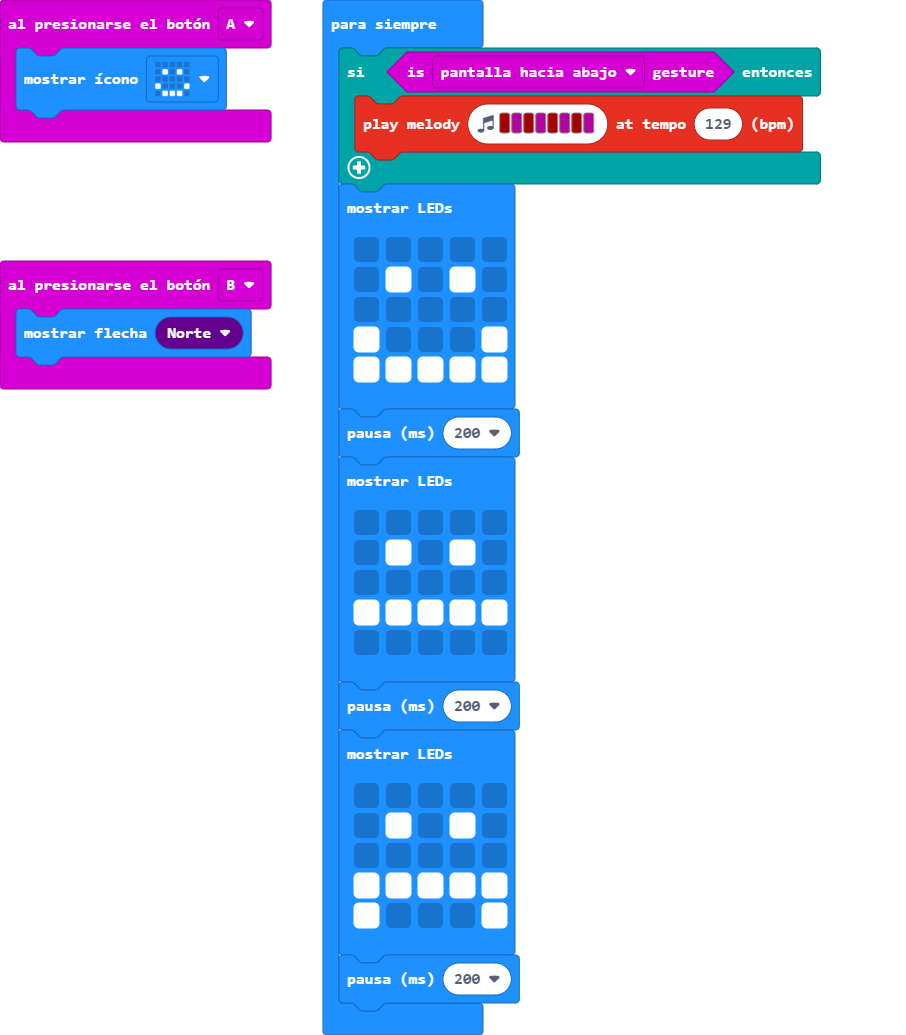
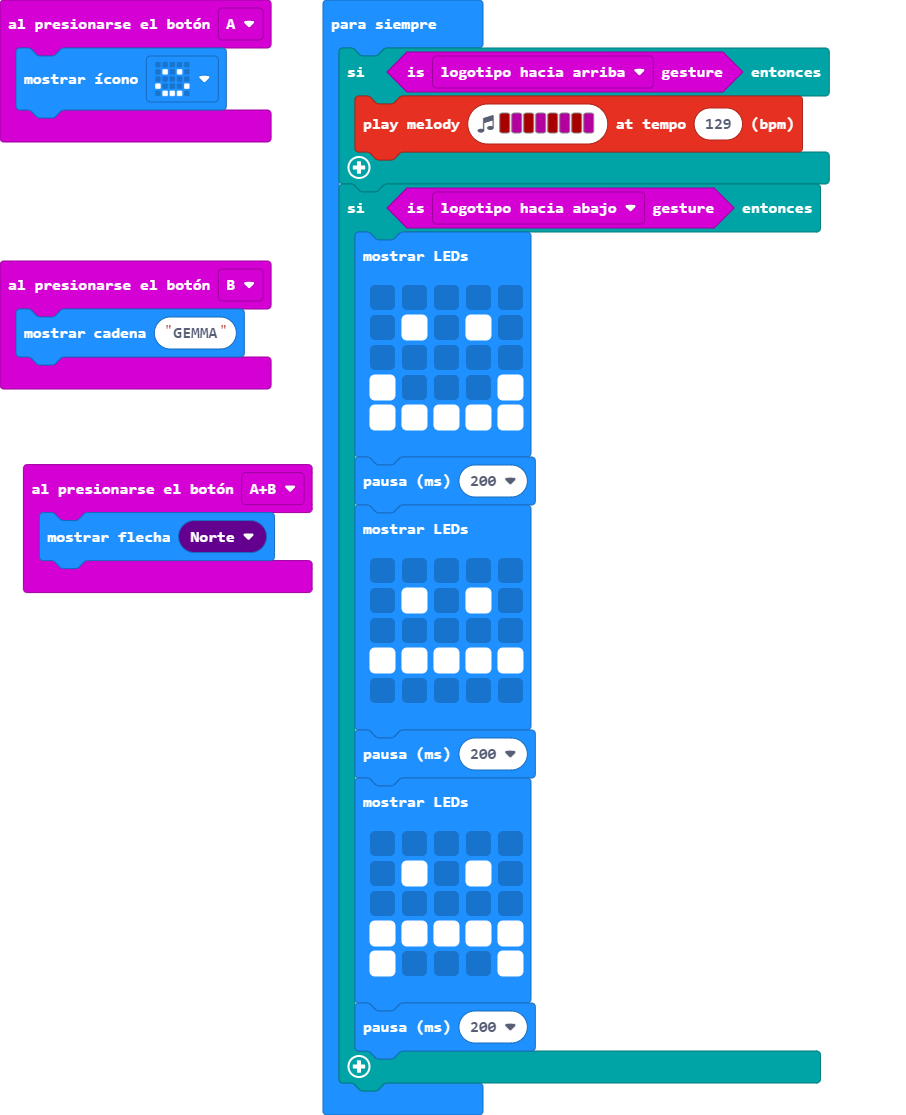
Actualizar main.blocks, main.ts

Changed region(s): [[0.0, 0.0, 0.9272, 0.9894], [0.0, 0.0, 0.3091, 0.1546]]

diff --git a/main.ts b/main.ts
@@ -1,35 +1,40 @@
 input.onButtonPressed(Button.A, function () {
     basic.showIcon(IconNames.Happy)
 })
-input.onButtonPressed(Button.B, function () {
+input.onButtonPressed(Button.AB, function () {
     basic.showArrow(ArrowNames.North)
 })
+input.onButtonPressed(Button.B, function () {
+    basic.showString("GEMMA")
+})
 basic.forever(function () {
-    if (input.isGesture(Gesture.ScreenDown)) {
+    if (input.isGesture(Gesture.LogoUp)) {
         music.playMelody("C5 C C5 C C5 C C5 C ", 129)
     }
-    basic.showLeds(`
-        . . . . .
-        . # . # .
-        . . . . .
-        # . . . #
-        # # # # #
-        `)
-    basic.pause(200)
-    basic.showLeds(`
-        . . . . .
-        . # . # .
-        . . . . .
-        # # # # #
-        . . . . .
-        `)
-    basic.pause(200)
-    basic.showLeds(`
-        . . . . .
-        . # . # .
-        . . . . .
-        # # # # #
-        # . . . #
-        `)
-    basic.pause(200)
+    if (input.isGesture(Gesture.LogoDown)) {
+        basic.showLeds(`
+            . . . . .
+            . # . # .
+            . . . . .
+            # . . . #
+            # # # # #
+            `)
+        basic.pause(200)
+        basic.showLeds(`
+            . . . . .
+            . # . # .
+            . . . . .
+            # # # # #
+            . . . . .
+            `)
+        basic.pause(200)
+        basic.showLeds(`
+            . . . . .
+            . # . # .
+            . . . . .
+            # # # # #
+            # . . . #
+            `)
+        basic.pause(200)
+    }
 })
